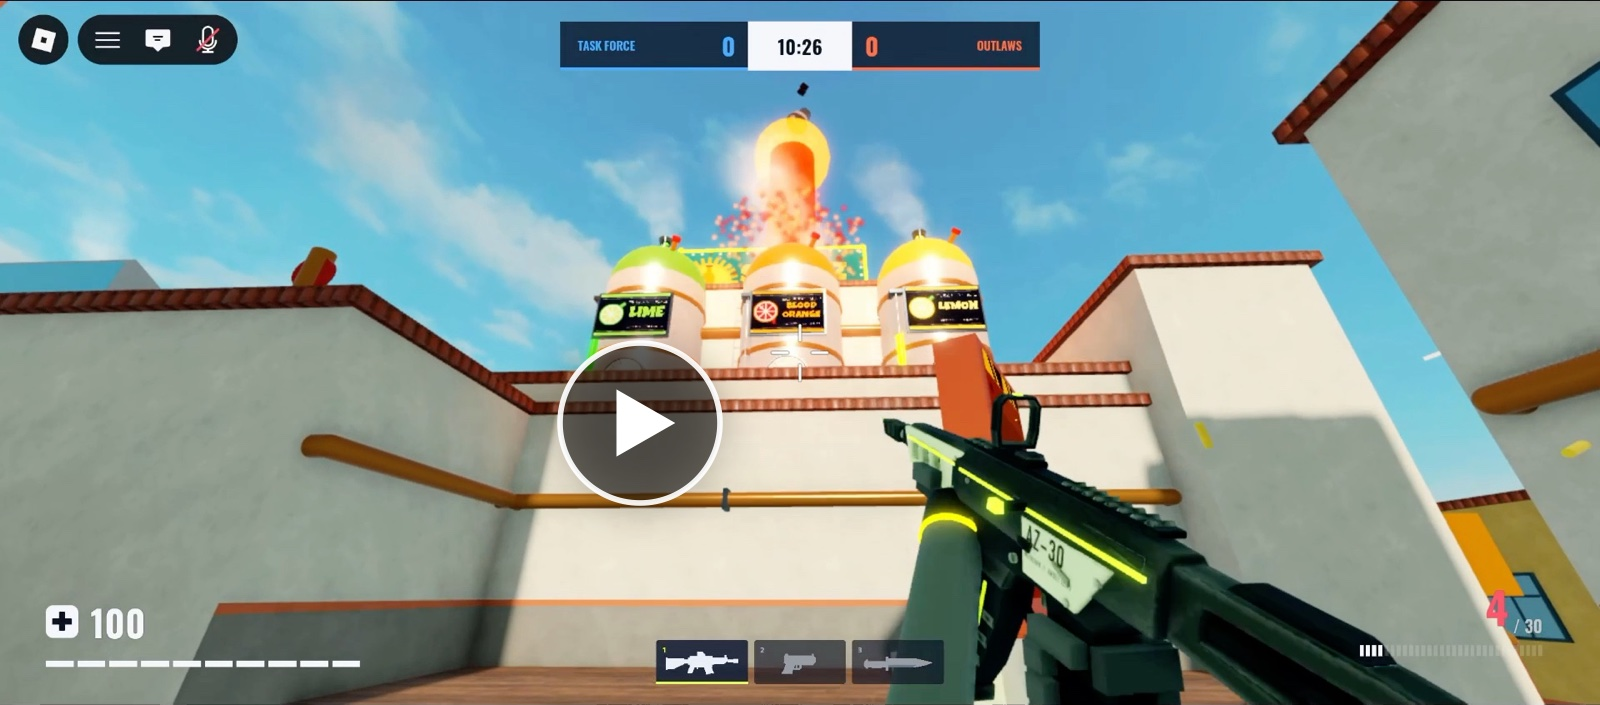
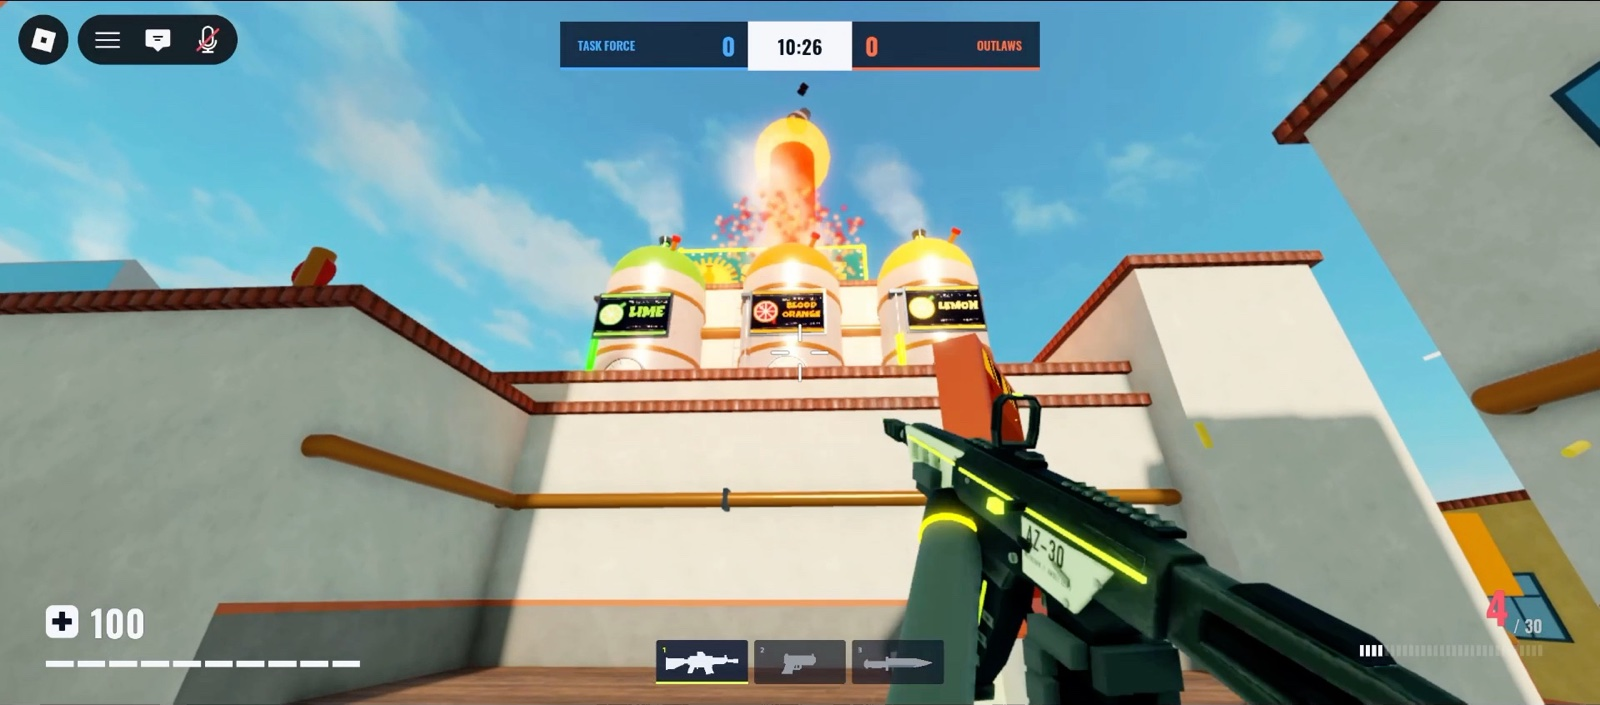
Replace play-button poster with an honest download link

Changed region(s): [[0.3438, 0.4681, 0.4688, 0.7177]]

diff --git a/README.md b/README.md
@@ -4,7 +4,7 @@
 
 **A fast-paced multiplayer first-person shooter developed for Roblox.**
 
-[**▶ Watch the gameplay showcase**](https://github.com/tyalcin-ucsc/ANGLE-ZERO-Showcase/releases/download/showcase-v1/ANGLE_ZERO_Gameplay_Showcase.mp4) &nbsp;·&nbsp; 1:19 &nbsp;·&nbsp; 1080p60
+[**⬇ Download the gameplay showcase**](https://github.com/tyalcin-ucsc/ANGLE-ZERO-Showcase/releases/download/showcase-v1/ANGLE_ZERO_Gameplay_Showcase.mp4) &nbsp;·&nbsp; 1:19 &nbsp;·&nbsp; 1080p60
 
 </div>
 
@@ -12,10 +12,10 @@
 
 ## Gameplay Showcase
 
-[![ANGLE ZERØ gameplay showcase: click to watch](media/gameplay-poster.jpg)](https://github.com/tyalcin-ucsc/ANGLE-ZERO-Showcase/releases/download/showcase-v1/ANGLE_ZERO_Gameplay_Showcase.mp4)
+![ANGLE ZERØ gameplay: rooftop soda tanks bursting](media/gameplay-poster.jpg)
 
 <p align="center">
-  <a href="https://github.com/tyalcin-ucsc/ANGLE-ZERO-Showcase/releases/download/showcase-v1/ANGLE_ZERO_Gameplay_Showcase.mp4"><b>▶ Watch the gameplay video</b></a> (MP4, 1:19, 1080p60)
+  <a href="https://github.com/tyalcin-ucsc/ANGLE-ZERO-Showcase/releases/download/showcase-v1/ANGLE_ZERO_Gameplay_Showcase.mp4"><b>⬇ Download the full-quality gameplay video</b></a> (MP4, 1:19, 1080p60, 151 MB)
   &nbsp;·&nbsp;
   <a href="https://github.com/tyalcin-ucsc/ANGLE-ZERO-Showcase/releases/tag/showcase-v1">Release page</a>
 </p>
